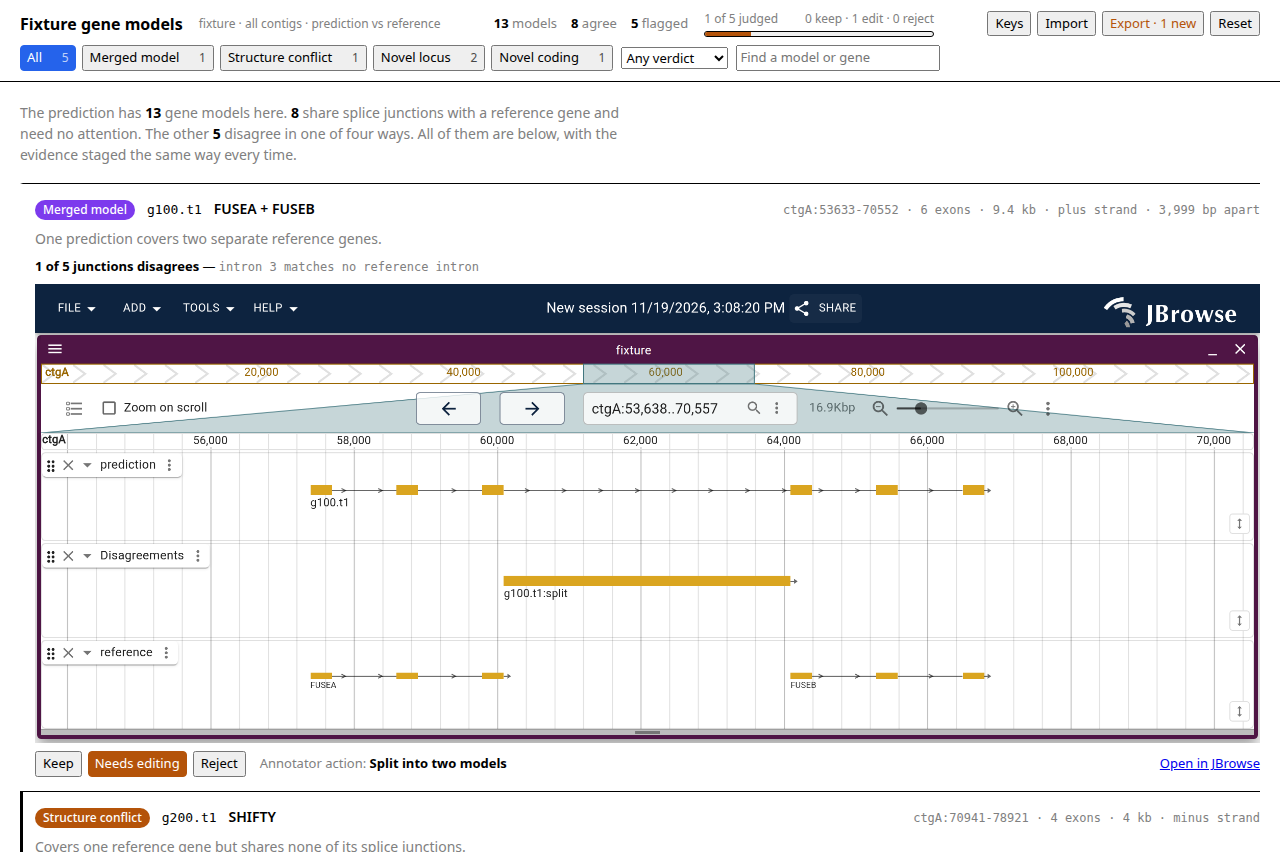
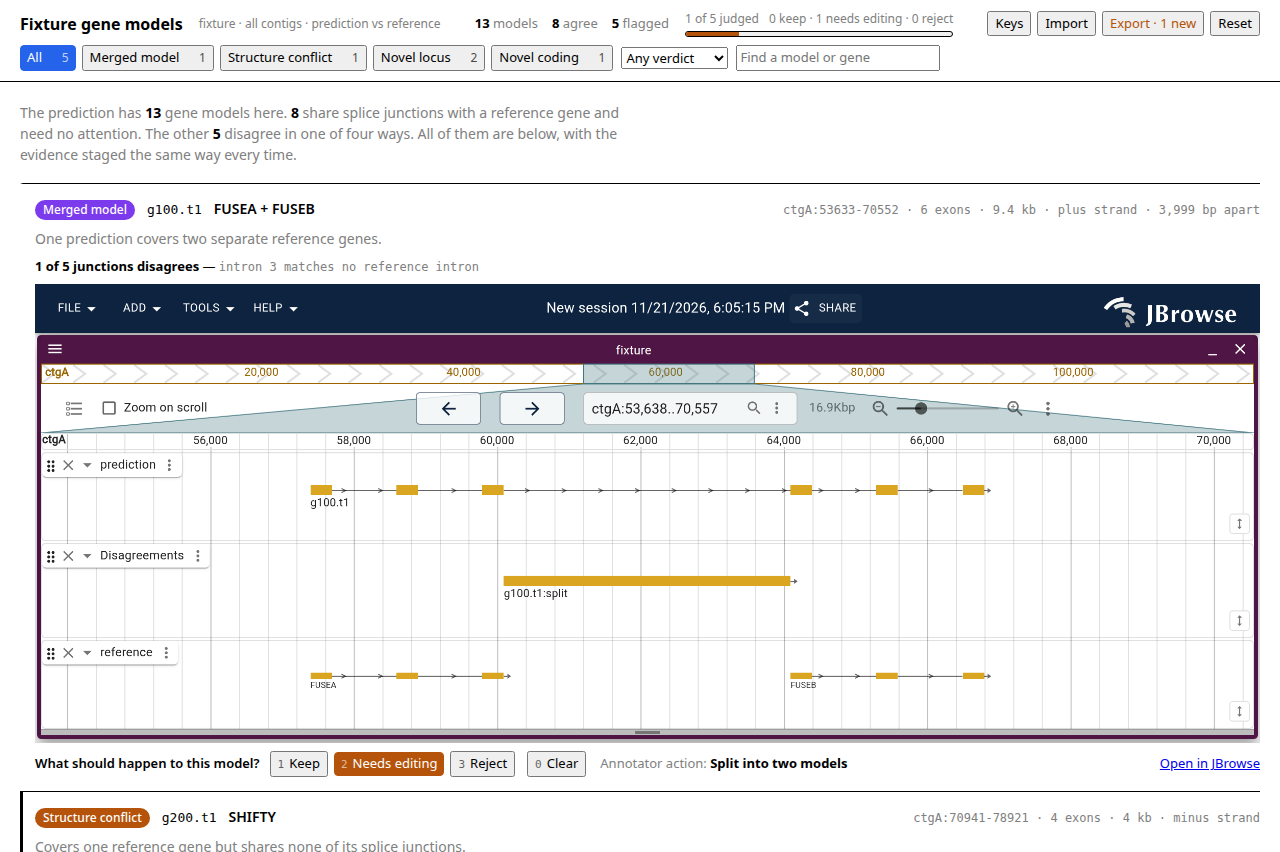
Let the progress box grow with the answers' labels, and retake the README pictures from the redeployed Tiberius demo and the fixture
The tally reads "needs editing" since the answers became configurable, and
the fixed 230 px box wrapped it onto a second line.

Changed region(s): [[0.0312, 0.8545, 0.6562, 0.9155], [0.375, 0.0, 0.75, 0.061], [0.5625, 0.3357, 0.5938, 0.3662]]

diff --git a/lib/template.html b/lib/template.html
@@ -90,7 +90,7 @@
         color: var(--edit);
       }
       .progress {
-        width: 230px;
+        min-width: 230px;
         display: flex;
         flex-direction: column;
         gap: 3px;
@@ -99,6 +99,7 @@
         display: flex;
         justify-content: space-between;
         gap: 10px;
+        white-space: nowrap;
         font-size: 12px;
         color: GrayText;
       }
